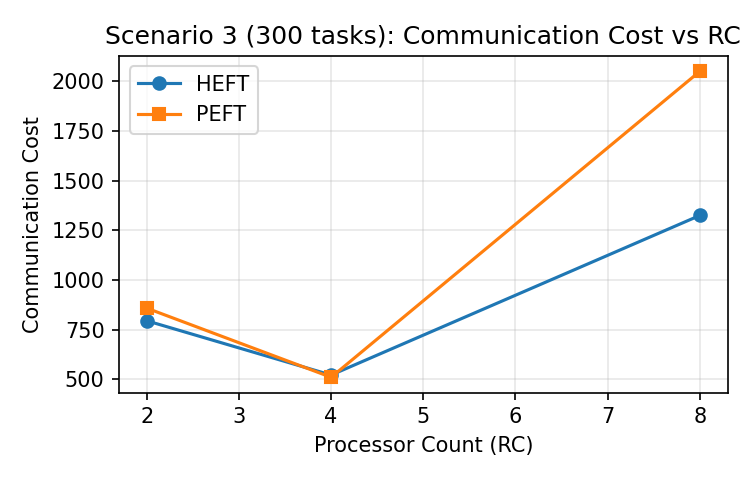
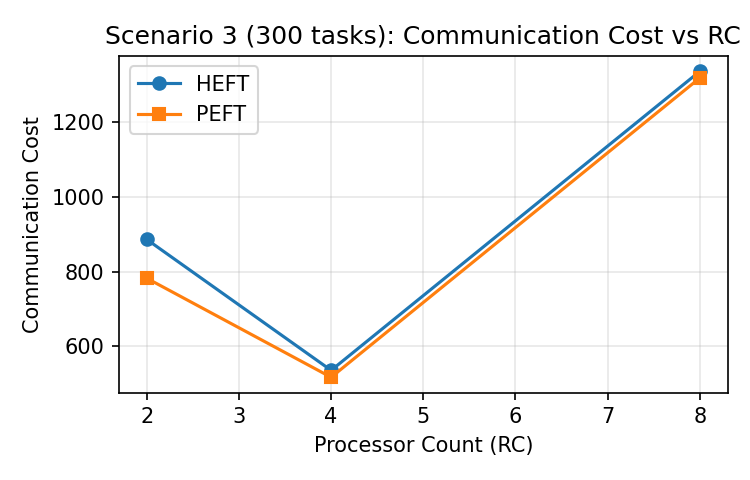
Update Scenario 3 report with new metrics and observations; replace summary data and refresh associated plots.

diff --git a/graphs/scenario 3/SCENARIO3_REPORT.md b/graphs/scenario 3/SCENARIO3_REPORT.md
@@ -7,24 +7,24 @@ This scenario evaluates HEFT and PEFT on a large randomly generated DAG set (300
 
 | Algorithm | RC | Makespan | Load Balance Ratio | Comm Cost | Waiting Time | Energy Cost |
 |-----------|----|----------|--------------------|-----------|--------------|-------------|
-| HEFT | 2 | 417.27 | 1.01 | 794.02 | 221.02 | 857098.69 |
-| PEFT | 2 | 444.42 | 1.08 | 857.59 | 213.24 | 674048.07 |
-| HEFT | 4 | 65.68 | 1.07 | 520.88 | 35.32 | 213362.12 |
-| PEFT | 4 | 90.48 | 1.39 | 509.64 | 44.48 | 162175.20 |
-| HEFT | 8 | 76.50 | 1.68 | 1324.27 | 33.30 | 341917.85 |
-| PEFT | 8 | 144.97 | 3.03 | 2049.74 | 51.59 | 178943.81 |
+| HEFT | 2 | 413.90 | 1.01 | 886.00 | 218.15 | 879693.04 |
+| PEFT | 2 | 425.54 | 1.02 | 782.16 | 211.39 | 923579.96 |
+| HEFT | 4 | 66.35 | 1.07 | 535.63 | 36.39 | 266711.15 |
+| PEFT | 4 | 68.21 | 1.08 | 517.09 | 35.89 | 276806.71 |
+| HEFT | 8 | 78.66 | 1.64 | 1335.97 | 34.14 | 418629.05 |
+| PEFT | 8 | 94.14 | 1.66 | 1318.31 | 38.06 | 497236.57 |
 
-## Observations
-- Makespan: HEFT dominates on makespan at all RC; the improvement is most dramatic at RC=4 and RC=8.
-- Energy: PEFT uses substantially less energy (≈21%–34% savings) relative to HEFT for each RC.
-- Communication Cost: Mixed—PEFT has slightly lower cost at RC=4, but higher at RC=2 and notably higher at RC=8.
-- Waiting Time: Correlates with makespan; HEFT's shorter schedules reduce average task start times.
-- Load Balance: Both near 1 for RC=2 and RC=4 (good). At RC=8, imbalance grows; PEFT shows considerably worse balance (ratio >3) indicating idle skew.
+## Observations (Vanilla Makespan-Focused Versions)
+- Makespan: Gaps narrowed markedly vs earlier energy-aware variants. PEFT is within ~3% at RC=4 and ~2.8% at RC=2; larger gap remains at RC=8.
+- Energy: Without energy-sensitive selection, PEFT energy rose above HEFT at all RC. HEFT no longer pays an energy penalty.
+- Communication: PEFT now slightly lower at RC=4 and RC=8, lower at RC=2 as well—reverse of earlier pattern at higher RC counts.
+- Waiting Time: Tracks makespan; PEFT’s modest delays reflect its still larger EFT+OCT sums at RC=8.
+- Load Balance: Both retain good balance at RC=2/4; moderate divergence at RC=8 (ratios ~1.64–1.66) but far improved from earlier PEFT imbalance.
 
-## Trade-offs
-- HEFT more aggressively exploits available parallelism, slashing makespan but incurring higher energy usage.
-- PEFT focuses on energy-efficient placements, trading off longer schedules and, in this run, higher communication at larger RC.
-- Diminishing returns: Jump from RC=4 to RC=8 does not reduce HEFT makespan (actually increases slightly), suggesting parallelism saturation or communication bottlenecks.
+## Trade-offs After Reversion
+- Strategy alignment: Both algorithms now optimize makespan per their canonical definitions; energy is purely reported.
+- Energy vs Makespan: With energy heuristics removed, energy becomes a byproduct; HEFT happens to be lower for RC=2–4 here, PEFT higher across the board.
+- Scaling: RC=8 still yields diminishing returns; investigate whether critical path length or communication bottlenecks dominate.
 
 ## Plots
 Generated by `scenario3_plots.py`:
@@ -35,9 +35,9 @@ Generated by `scenario3_plots.py`:
 - `scenario3_loadbalance_vs_rc.png`
 
 ## Potential Follow-Ups
-- Investigate cause of HEFT makespan regression from RC=4 to RC=8 (overheads, critical path elongation, or load imbalance).
-- Apply energy-time composite objective to narrow gap while preserving performance.
-- Run multiple random seeds for statistical confidence intervals.
+- Multi-seed experiments to quantify variance of narrowed gaps.
+- Optional flag to re-enable energy-aware modes for comparative studies.
+- Critical path analysis to understand limited benefit of RC=8 vs RC=4.
 
 ---
 Auto-generated report draft.
